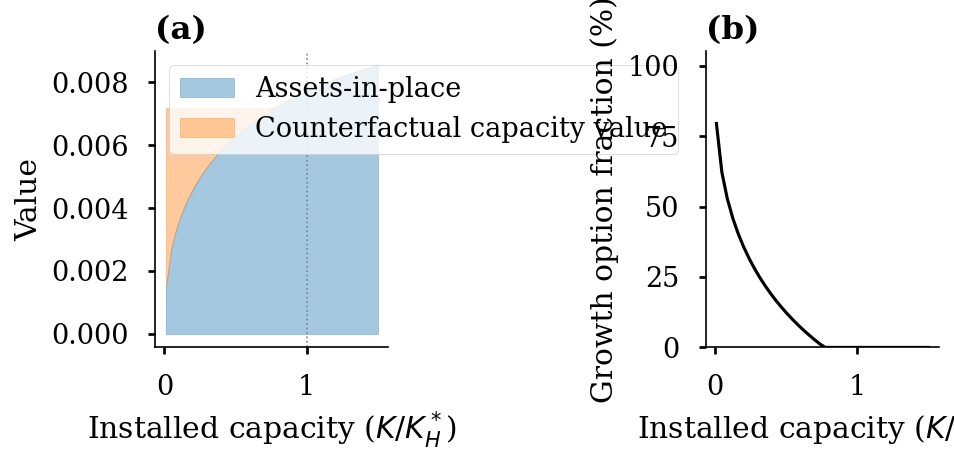
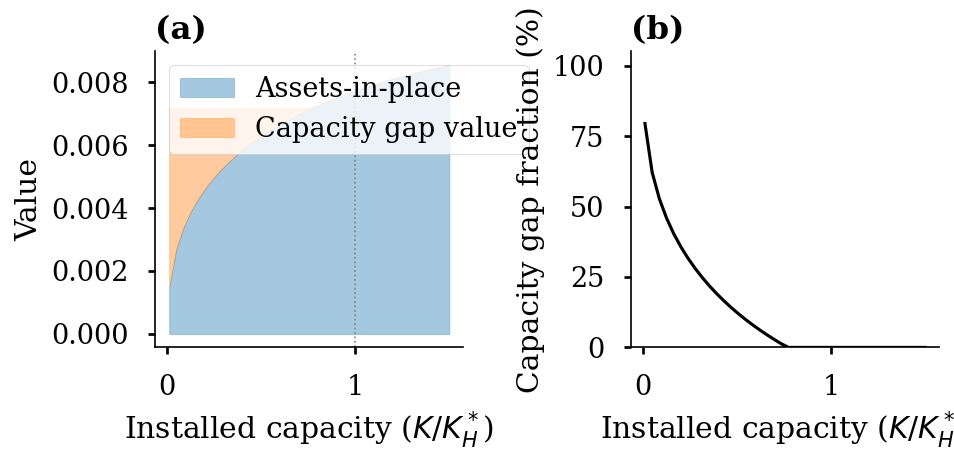
Clarify growth decomposition as capacity gap analysis (review comment §3)
Rename "Growth Option Decomposition" → "Value Decomposition" and reframe as
a comparative statics capacity gap exercise rather than a standard Berk (1999)
growth-option decomposition. Updates section heading, terminology, figure
labels, and cross-references in introduction, literature, and appendix.

diff --git a/src/ai_lab_investment/figures/paper.py b/src/ai_lab_investment/figures/paper.py
@@ -516,11 +516,11 @@ def create_lambda_timeline() -> plt.Figure:
     return fig
 
 
-# ── Figure 10: Growth option decomposition ───────────────────────
+# ── Figure 10: Value decomposition ────────────────────────────────
 
 
 def create_growth_decomposition() -> plt.Figure:
-    """Two-panel: value decomposition and growth-option fraction.
+    """Two-panel: value decomposition and capacity gap fraction.
 
     Uses the phi-aware model (optimal_trigger_capacity_phi,
     installed_value_with_phi) matching Phase 1 corrections.
@@ -557,7 +557,7 @@ def create_growth_decomposition() -> plt.Figure:
         assets + counterfactual,
         alpha=0.4,
         color="#ff7f0e",
-        label="Counterfactual capacity value",
+        label="Capacity gap value",
     )
     ax1.axvline(1.0, color="0.5", linestyle=":", linewidth=0.8)
     ax1.set_xlabel(r"Installed capacity ($K / K_H^*$)")
@@ -569,7 +569,7 @@ def create_growth_decomposition() -> plt.Figure:
     growth_frac = np.where(total > 0, counterfactual / total * 100, 0)
     ax2.plot(K_fracs, growth_frac, "k-", linewidth=1.5)
     ax2.set_xlabel(r"Installed capacity ($K / K_H^*$)")
-    ax2.set_ylabel("Growth option fraction (%)")
+    ax2.set_ylabel("Capacity gap fraction (%)")
     ax2.set_ylim(0, 105)
     ax2.set_title("(b)", loc="left", fontweight="bold")
 
